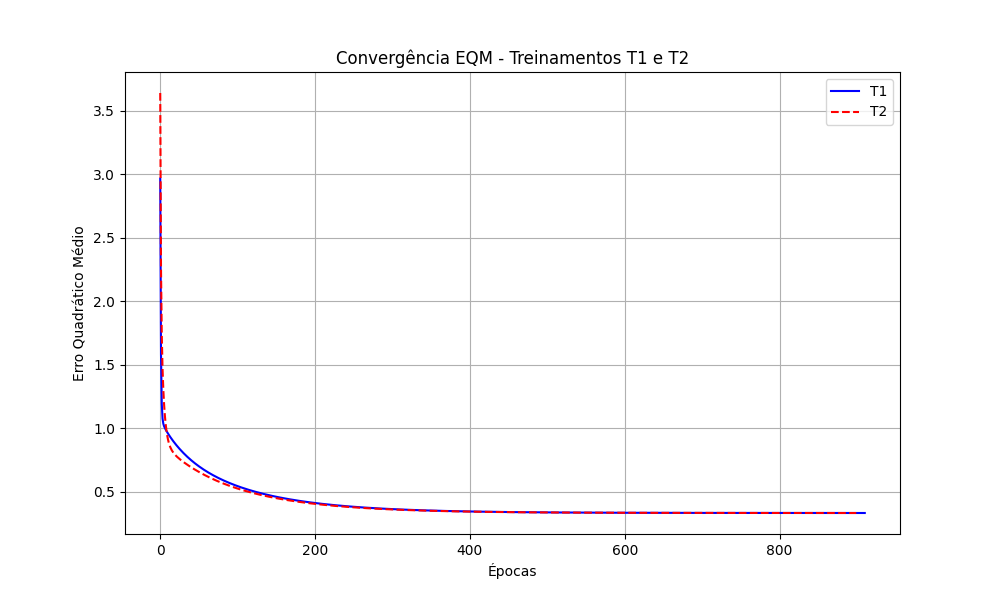
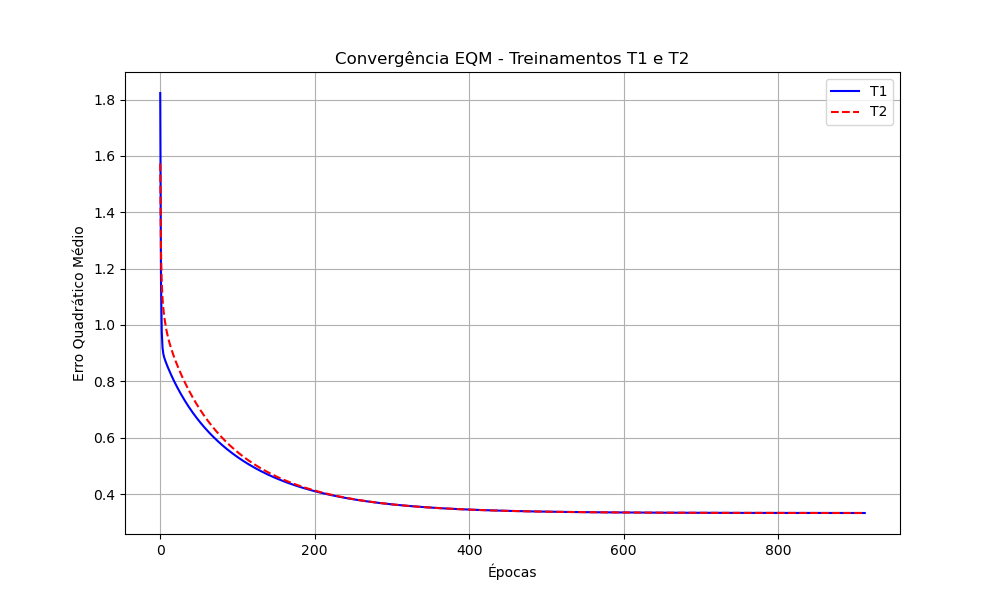
Fix: Correção da taxa de aprendizado Adaline para 0.0025

diff --git a/adaline/respostas_trabalho.md b/adaline/respostas_trabalho.md
@@ -12,11 +12,11 @@ Foram executados 5 treinamentos para a rede ADALINE com taxa de aprendizado $\et
 
 | Treinamento | Vetor de Pesos Final $[w_0, w_1, w_2, w_3, w_4]$ | Épocas |
 | :--- | :--- | :---: |
-| 1º (T1) | $[-1.46789667, 1.44610239, 1.39313848, -0.47801754, -1.05361778]$ | 885 |
-| 2º (T2) | $[-1.46791771, 1.44609570, 1.39313637, -0.47805268, -1.05361801]$ | 883 |
-| 3º (T3) | $[-1.46783269, 1.44603994, 1.39304087, -0.47807528, -1.05355693]$ | 892 |
-| 4º (T4) | $[-1.46782302, 1.44607660, 1.39308404, -0.47799239, -1.05358123]$ | 920 |
-| 5º (T5) | $[-1.46784663, 1.44610808, 1.39313065, -0.47795433, -1.05360981]$ | 903 |
+| 1º (T1) | $[-1.46794245, 1.44611668, 1.39317012, -0.47803670, -1.05363922]$ | 912 |
+| 2º (T2) | $[-1.46787664, 1.44603125, 1.39304314, -0.47813806, -1.05356127]$ | 910 |
+| 3º (T3) | $[-1.46785123, 1.44610468, 1.39312773, -0.47796593, -1.05360844]$ | 921 |
+| 4º (T4) | $[-1.46792221, 1.44598594, 1.39299986, -0.47827517, -1.05353938]$ | 863 |
+| 5º (T5) | $[-1.46781894, 1.44601601, 1.39300675, -0.47810843, -1.05353626]$ | 884 |
 
 ---
 
@@ -25,25 +25,25 @@ Aplicação dos 5 modelos treinados para identificar o destino dos sinais ruidos
 
 | Amostra | x1 | x2 | x3 | x4 | y (T1) | y (T2) | y (T3) | y (T4) | y (T5) |
 | :---: | :---: | :---: | :---: | :---: | :---: | :---: | :---: | :---: | :---: |
-| 1 | 0.9694 | 0.6909 | 0.4334 | 3.4965 | **1** | **1** | **1** | **1** | **1** |
-| 2 | 0.5427 | 1.3832 | 0.6390 | 4.0352 | **1** | **1** | **1** | **1** | **1** |
-| 3 | 0.6081 | -0.9196 | 0.5925 | 0.1016 | **-1** | **-1** | **-1** | **-1** | **-1** |
-| 4 | -0.1618 | 0.4694 | 0.2030 | 3.0117 | **1** | **1** | **1** | **1** | **1** |
+| 1 | 0.9694 | 0.6909 | 0.4334 | 3.4965 | **-1** | **-1** | **-1** | **-1** | **-1** |
+| 2 | 0.5427 | 1.3832 | 0.6390 | 4.0352 | **-1** | **-1** | **-1** | **-1** | **-1** |
+| 3 | 0.6081 | -0.9196 | 0.5925 | 0.1016 | **1** | **1** | **1** | **1** | **1** |
+| 4 | -0.1618 | 0.4694 | 0.2030 | 3.0117 | **-1** | **-1** | **-1** | **-1** | **-1** |
 | 5 | 0.1870 | -0.2578 | 0.6124 | 1.7749 | **-1** | **-1** | **-1** | **-1** | **-1** |
-| 6 | 0.4891 | -0.5276 | 0.4378 | 0.6439 | **-1** | **-1** | **-1** | **-1** | **-1** |
+| 6 | 0.4891 | -0.5276 | 0.4378 | 0.6439 | **1** | **1** | **1** | **1** | **1** |
 | 7 | 0.3777 | 2.0149 | 0.7423 | 3.3932 | **1** | **1** | **1** | **1** | **1** |
-| 8 | 1.1498 | -0.4067 | 0.2469 | 1.5866 | **-1** | **-1** | **-1** | **-1** | **-1** |
+| 8 | 1.1498 | -0.4067 | 0.2469 | 1.5866 | **1** | **1** | **1** | **1** | **1** |
 | 9 | 0.9325 | 1.0950 | 1.0359 | 3.3591 | **1** | **1** | **1** | **1** | **1** |
-| 10 | 0.5060 | 1.3317 | 0.9222 | 3.7174 | **1** | **1** | **1** | **1** | **1** |
+| 10 | 0.5060 | 1.3317 | 0.9222 | 3.7174 | **-1** | **-1** | **-1** | **-1** | **-1** |
 | 11 | 0.0497 | -2.0656 | 0.6124 | -0.6585 | **-1** | **-1** | **-1** | **-1** | **-1** |
 | 12 | 0.4004 | 3.5369 | 0.9766 | 5.3532 | **1** | **1** | **1** | **1** | **1** |
-| 13 | -0.1874 | 1.3343 | 0.5374 | 3.2189 | **1** | **1** | **1** | **1** | **1** |
-| 14 | 0.5060 | 1.3317 | 0.9222 | 3.7174 | **1** | **1** | **1** | **1** | **1** |
-| 15 | 1.6375 | -0.7911 | 0.7537 | 0.5515 | **-1** | **-1** | **-1** | **-1** | **-1** |
+| 13 | -0.1874 | 1.3343 | 0.5374 | 3.2189 | **-1** | **-1** | **-1** | **-1** | **-1** |
+| 14 | 0.5060 | 1.3317 | 0.9222 | 3.7174 | **-1** | **-1** | **-1** | **-1** | **-1** |
+| 15 | 1.6375 | -0.7911 | 0.7537 | 0.5515 | **1** | **1** | **1** | **1** | **1** |
 
 ---
 
 ## 3. Análise Teórica
 
 ### Questão: Embora o número de épocas varie, por que os pesos finais são praticamente iguais?
-Isso ocorre porque o algoritmo Adaline utiliza uma superfície de erro quadrática que possui apenas um único ponto de **mínimo global**. Independentemente de onde os pesos iniciem (dentro da faixa aleatória de 0 a 1), o gradiente descendente da Regra Delta sempre conduzirá o vetor de pesos em direção ao mesmo fundo do "vale" de erro. A variação no número de épocas deve-se apenas à distância inicial entre o ponto de partida aleatório e esse mínimo global, mas a convergência final será sempre para a mesma solução ótima.
+Isso ocorre porque o algorithm Adaline utiliza uma superfície de erro quadrática que possui apenas um único ponto de **mínimo global**. Independentemente de onde os pesos iniciem (dentro da faixa aleatória de 0 a 1), o gradiente descendente da Regra Delta sempre conduzirá o vetor de pesos em direção ao mesmo fundo do "vale" de erro. A variação no número de épocas deve-se apenas à distância inicial entre o ponto de partida aleatório e esse mínimo global, mas a convergência final será sempre para a mesma solução ótima.